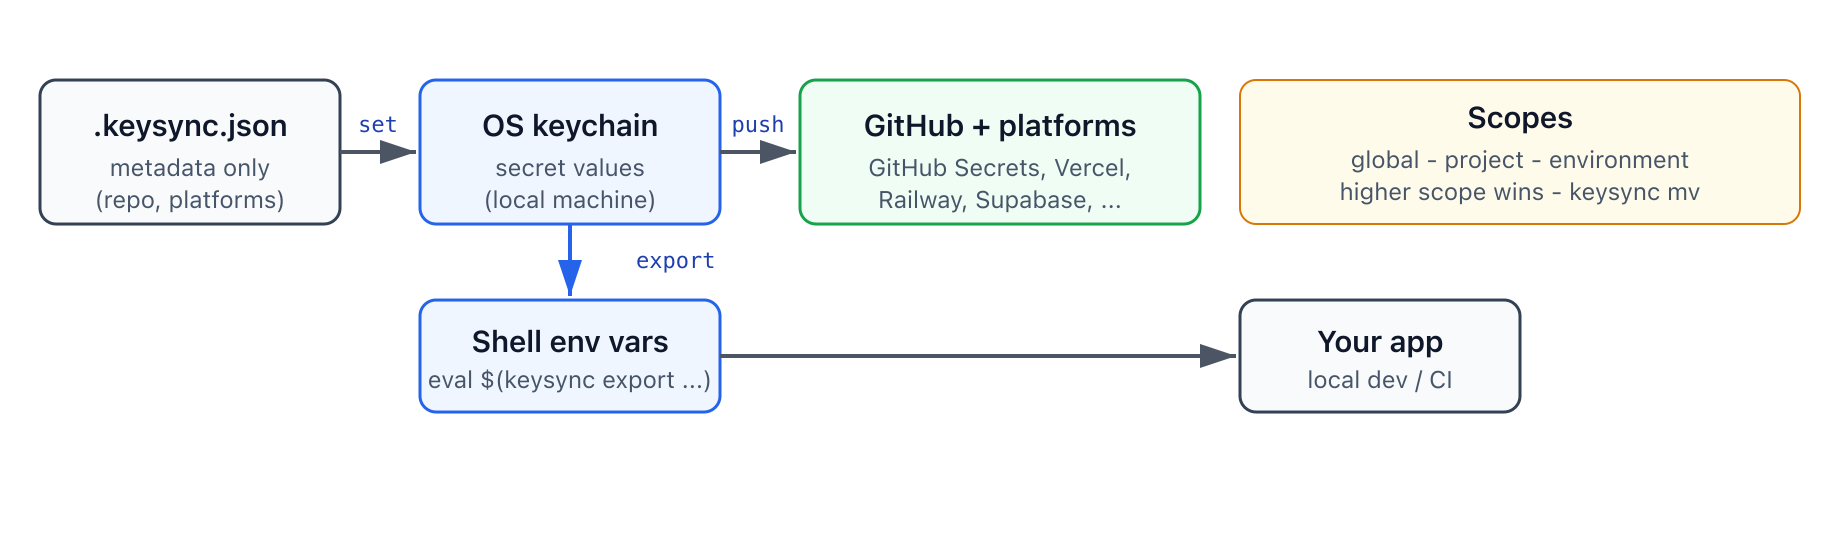
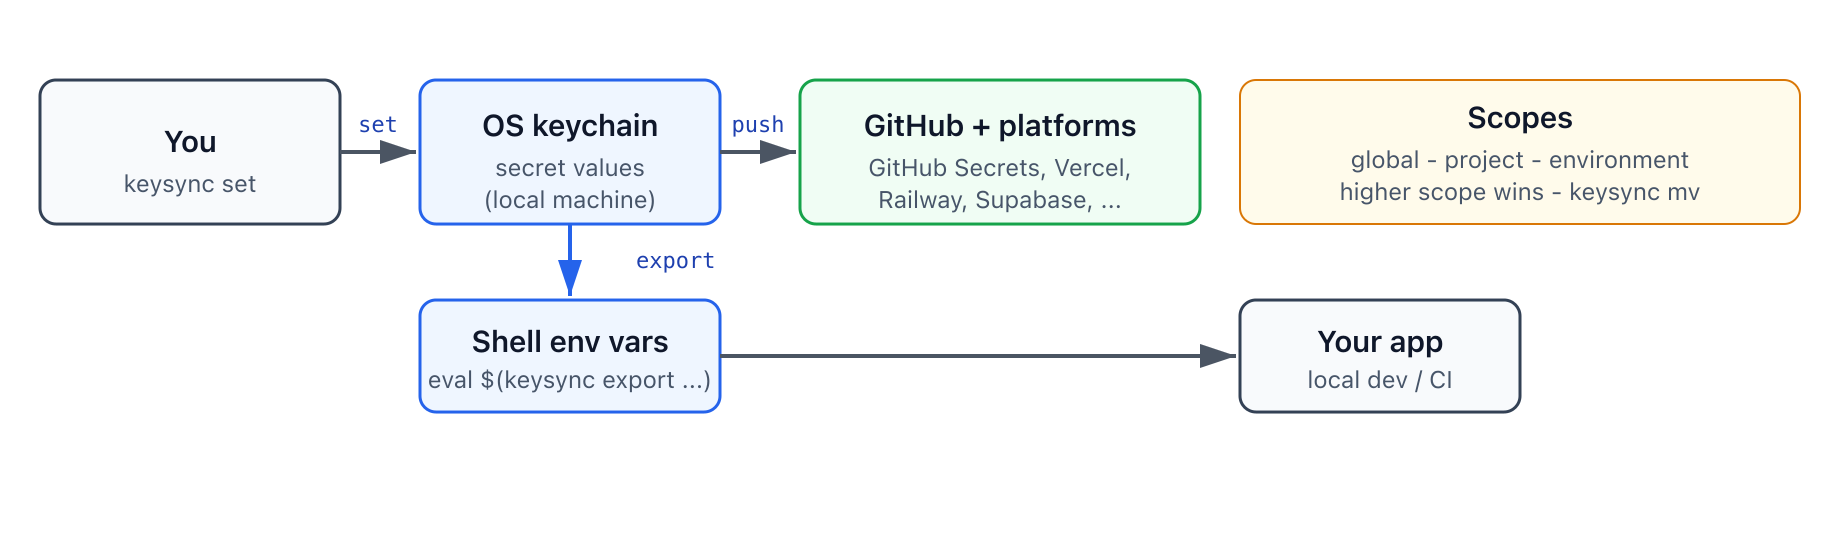
Diagram: start flow from You instead of .keysync.json.
Clarifies that users set secrets via the CLI; config file is not the source
of secret values.

Changed region(s): [[0.031, 0.2125, 0.1549, 0.3946]]

diff --git a/README.md b/README.md
@@ -93,7 +93,7 @@ Terminal recording coming soon — see [docs/demo.md](docs/demo.md) for `asciine
 ## How it works
 
 <p align="center">
-  <img src="docs/assets/how-it-works.png" alt="keysync flow: configuration in .keysync.json, secrets in the OS keychain, push syncs to GitHub and platforms, export loads environment variables for your app" width="920"/>
+  <img src="docs/assets/how-it-works.png" alt="keysync flow: you set secrets in the OS keychain, push syncs to GitHub and platforms, export loads environment variables for your app" width="920"/>
 </p>
 
 Three scope levels: **global** → **project** → **environment** (higher wins on conflict). Move between scopes with `keysync mv`. Details: [architecture](docs/architecture.md).
